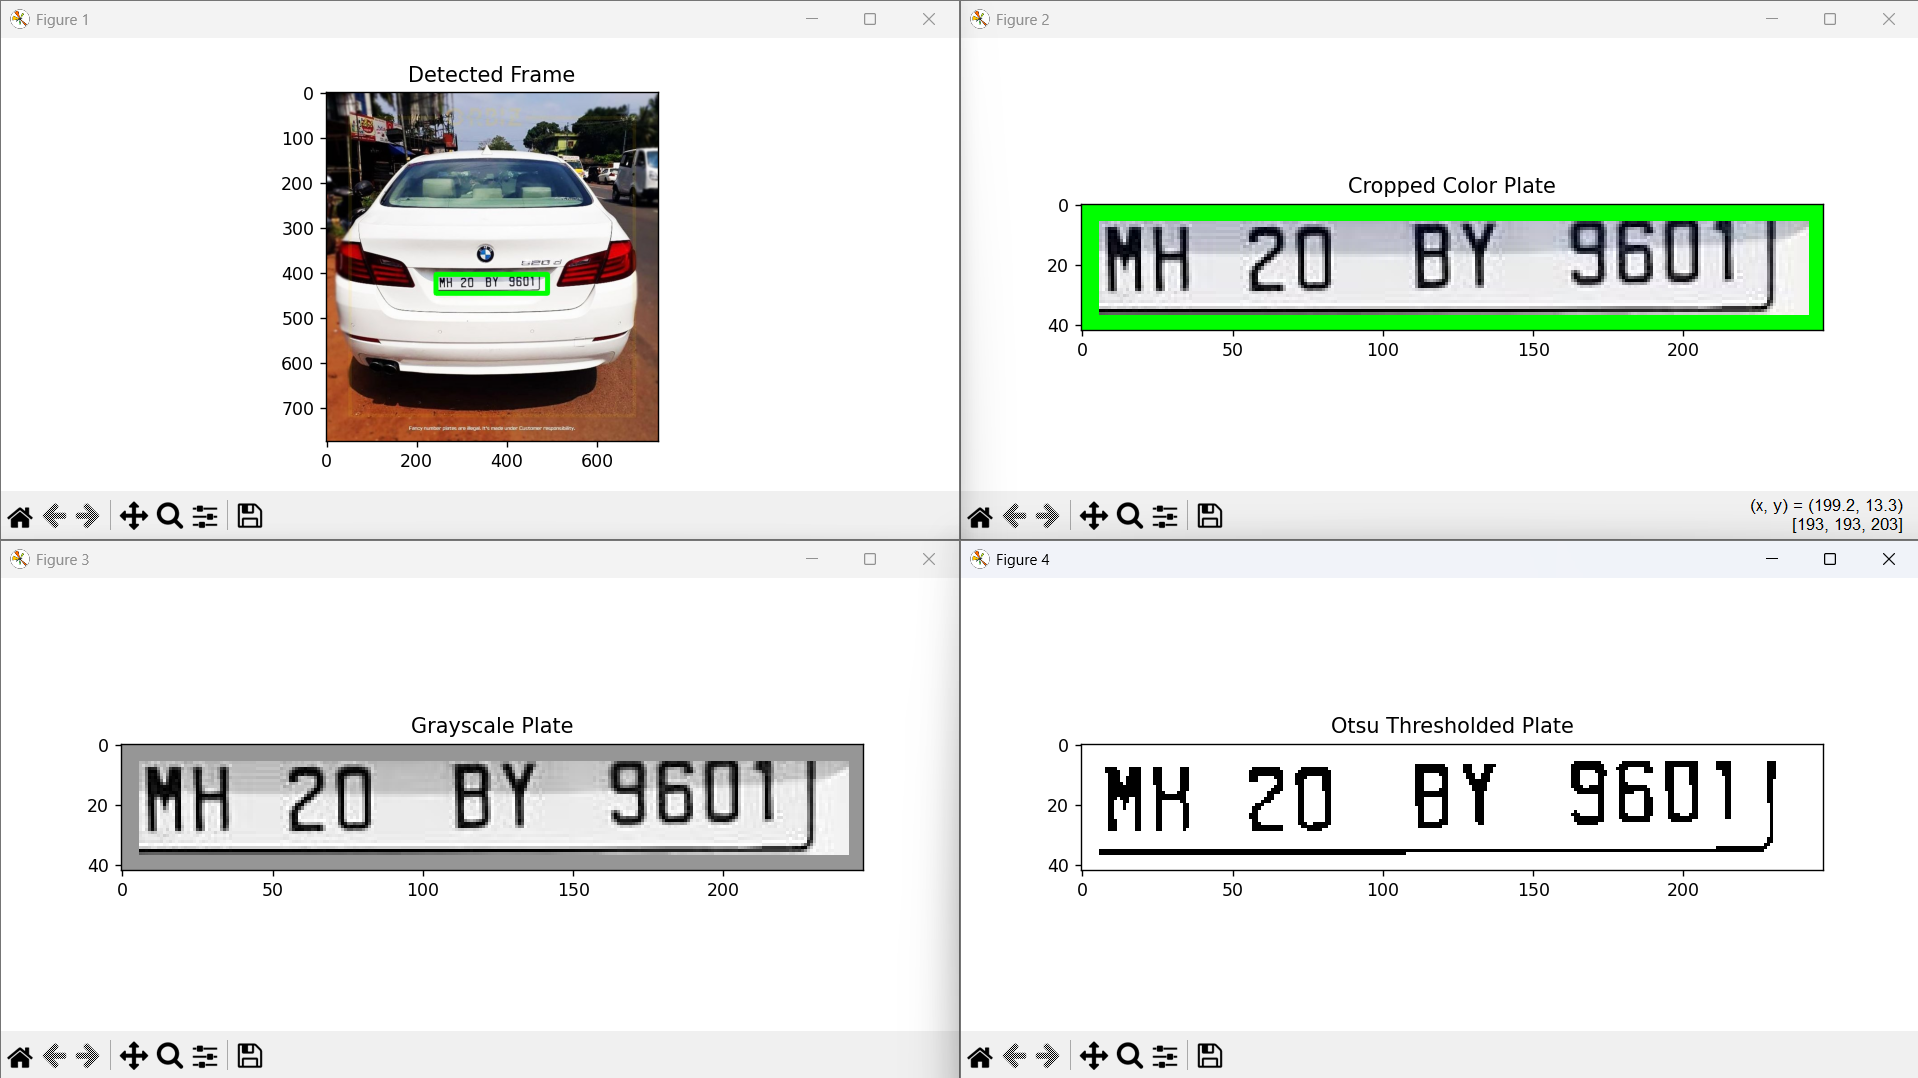
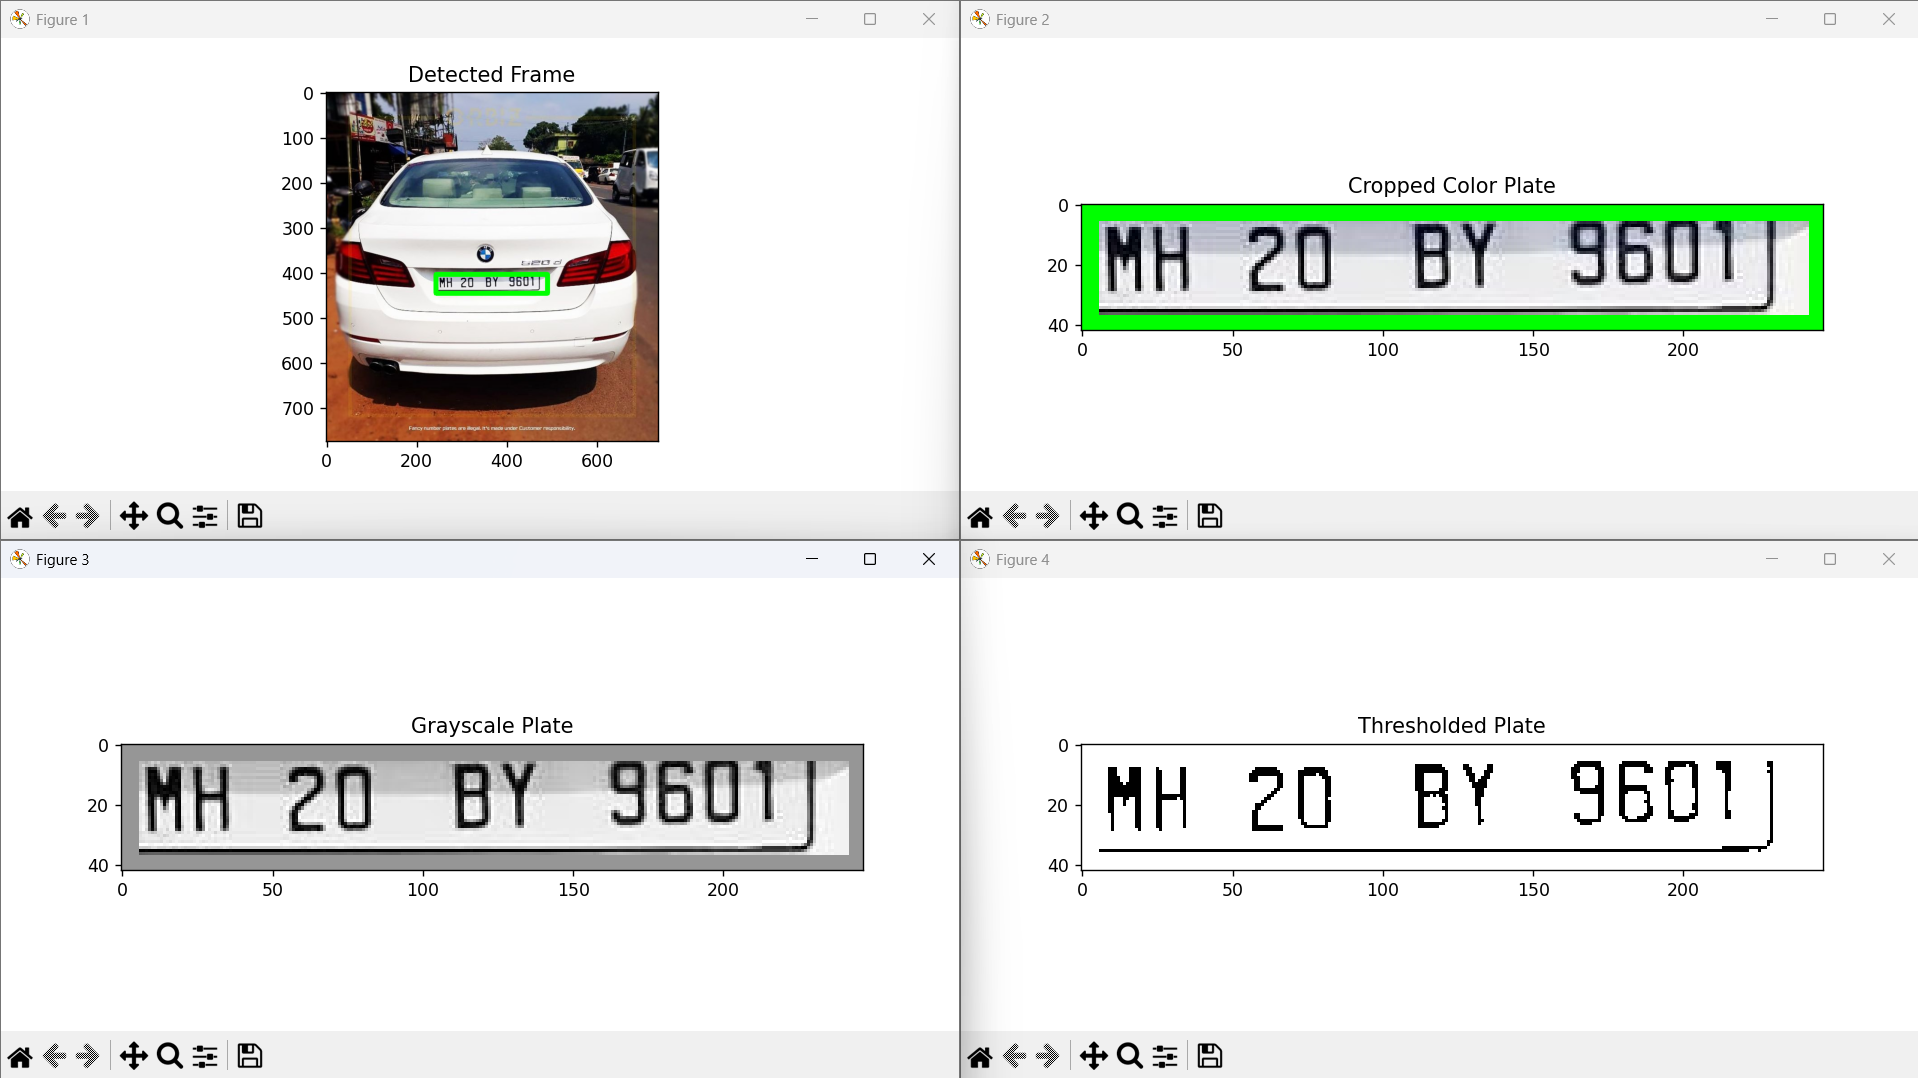
readme

diff --git a/main.py b/main.py
@@ -78,7 +78,7 @@ for bbox_, bbox in enumerate(bboxes):
     
     license_plate = img[ymin:ymax, xmin:xmax, :].copy()
     license_plate_gray = cv2.cvtColor(license_plate, cv2.COLOR_BGR2GRAY)
-    _, license_plate_thresh = cv2.threshold(license_plate_gray, 64, 255, cv2.THRESH_BINARY + cv2.THRESH_OTSU)
+    _, license_plate_thresh = cv2.threshold(license_plate_gray, 64, 255, cv2.THRESH_BINARY)
 
     output = reader.readtext(license_plate_thresh)
     
@@ -104,7 +104,7 @@ if license_plate is not None:
 
     plt.figure()
     plt.imshow(cv2.cvtColor(license_plate_thresh, cv2.COLOR_BGR2RGB))
-    plt.title("Otsu Thresholded Plate")
+    plt.title("Thresholded Plate")
 else:
     print("No plates detected to display processing stages.")
 

diff --git a/README.md b/README.md
@@ -100,7 +100,7 @@ git push -f origin main
 Here is a live look at the application executing the end-to-end computer vision pipeline on a test vehicle:
 
 ### 1. Visual Localization & Image Processing Pipeline
-The application draws a targeted bounding box around the detected license plate using YOLOv3, crops it out, scales it to grayscale, and applies Otsu's thresholding to optimize text readability for the OCR parser.
+The application draws a targeted bounding box around the detected license plate using YOLOv3, crops it out, scales it to grayscale, and applies thresholding to optimize text readability for the OCR parser.
 
 ![Detection Pipeline Windows](detection_results.png)
 